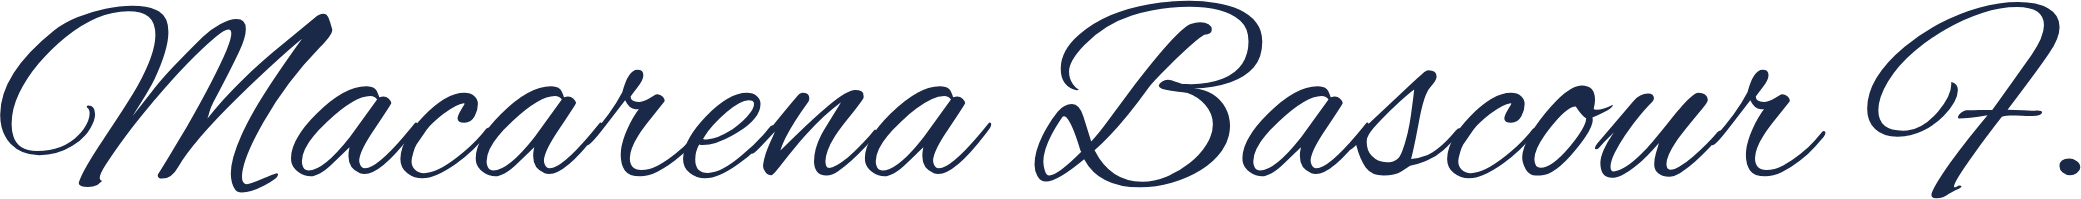
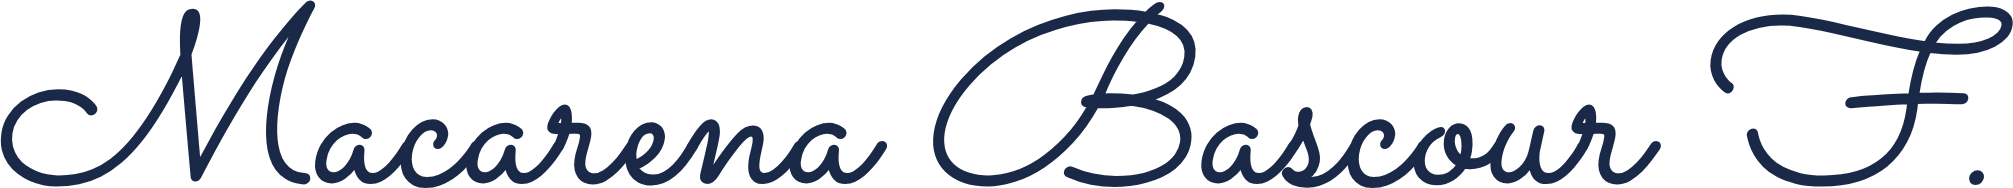
Replica la firma de la muestra y ordena la maqueta del correo
La firma pasa a una caligrafía monolineal: trazo de grosor parejo,
inclinación de mano y línea base horizontal, como la muestra enviada.

Maqueta: todo el correo cuelga ahora de un único margen lateral, que es
lo que hace que se lea como una columna y no como bloques sueltos.
- El nombre del colegio ocupa una fila propia; antes competía con la
  ilustración y se partía en dos renglones.
- El titular fluye en un solo bloque y la ilustración se centra con él.
- Las dos cifras comparten estructura (número, etiqueta, nota) en
  columnas iguales; el puntaje del colegio va en azul y sólo la brecha
  en rojo, para que el ojo distinga el dato del problema.
- Los beneficios pasan de cuatro columnas a dos por fila con el icono al
  costado: a 600 px, cuatro columnas dejaban renglones de tres palabras.
- La invitación a reunirse, los horarios y el botón arrancan en el mismo
  margen, así la vista baja recta hasta la llamada a la acción.
- La firma y los contactos se alinean por arriba.
Revisado en escritorio y en teléfono.

Claude-Session: https://claude.ai/code/session_01Je67bpLEoytunykz9aAXeX

Changed region(s): [[0.0, 0.0, 1.0, 1.0], [0.9856, 0.7979, 1.0, 0.8777]]

diff --git a/web/mailing.js b/web/mailing.js
@@ -206,29 +206,34 @@ export function correoHtml({ texto, prospecto, ctx, base, campanaId, rbd, track 
   const sitio = String(ctx?.sitio || '').trim();
   const remitente = String(ctx?.remitente || '').trim();
   const horarios = String(ctx?.horarios || '').split(',')
-    .map((h) => h.trim()).filter(Boolean).slice(0, 4);
+    .map((h) => h.trim()).filter(Boolean).slice(0, 3);
 
   const f = 'font-family:Arial,Helvetica,sans-serif';
+  /* Un solo margen lateral para todo el correo. Es lo que hace que el ojo
+     lea una columna y no una sucesión de bloques sueltos. */
+  const M = 'padding-left:34px;padding-right:34px';
+
+  /* Las dos cifras se leen como par comparado, así que ambas columnas
+     llevan la misma estructura: número, etiqueta, nota al pie. */
+  const cifra = (num, etiqueta, nota, color) => `
+    <div style="${f};font-size:36px;line-height:1;font-weight:bold;color:${color}">${num}</div>
+    <div style="${f};font-size:12.5px;font-weight:bold;line-height:1.35;
+      color:${MARCA.navy};padding-top:7px">${etiqueta}</div>
+    ${nota ? `<div style="${f};font-size:12px;line-height:1.4;color:#5a6b84;
+      padding-top:4px">${nota}</div>` : ''}`;
 
   const tarjetaSimce = Number.isFinite(simce) ? `
     <table role="presentation" width="100%" cellpadding="0" cellspacing="0"
            style="background:#f2f6fc;border-left:4px solid ${MARCA.rojo};border-radius:0 10px 10px 0">
       <tr>
-        <td width="46%" style="padding:16px 6px 16px 18px;${f};border-right:1px solid #dde5f0" valign="top">
-          <span style="font-size:34px;font-weight:bold;color:${MARCA.rojo}">${Math.round(simce)}</span>
-          <span style="font-size:13px;font-weight:bold;color:${MARCA.navy}">&nbsp;puntos</span>
-          <div style="font-size:12.5px;font-weight:bold;color:${MARCA.navy};padding-top:4px">
-            SIMCE Matemática 4º básico${anio ? ` ${escaparHtml(anio)}` : ''}</div>
+        <td width="50%" valign="top" style="padding:18px 16px 18px 20px;border-right:1px solid #dde5f0">
+          ${cifra(Math.round(simce), `puntos en SIMCE Matemática<br>4º básico${anio ? ` ${escaparHtml(anio)}` : ''}`, '', MARCA.navy)}
         </td>
-        <td style="padding:16px 18px 16px 16px;${f}" valign="top">
-          ${brecha > 0 ? `
-          <span style="font-size:34px;font-weight:bold;color:${MARCA.rojo}">${brecha}</span>
-          <span style="font-size:13px;font-weight:bold;color:${MARCA.rojo}">&nbsp;puntos bajo el<br>
-            <span style="padding-left:2px">promedio nacional (${ctx?.promedio || 253})</span></span>
-          <div style="font-size:12.5px;color:#5a6b84;padding-top:5px">
-            Una brecha que un método estructurado puede cerrar.</div>`
-    : `<div style="font-size:13px;color:#5a6b84;padding-top:8px">
-            Promedio nacional: ${ctx?.promedio || 253} puntos.</div>`}
+        <td width="50%" valign="top" style="padding:18px 20px 18px 18px">
+          ${brecha > 0
+    ? cifra(brecha, `puntos bajo el promedio<br>nacional (${ctx?.promedio || 253})`,
+      'Una brecha que un método estructurado puede cerrar.', MARCA.rojo)
+    : cifra(ctx?.promedio || 253, 'es el promedio nacional<br>de referencia', '', MARCA.navy)}
         </td>
       </tr>
     </table>` : '';
@@ -237,8 +242,8 @@ export function correoHtml({ texto, prospecto, ctx, base, campanaId, rbd, track 
     <table role="presentation" cellpadding="0" cellspacing="0"><tr>
       ${horarios.map((h) => {
     const [dia, ...resto] = h.split(/\s+/);
-    return `<td style="padding:0 10px 0 0"><table role="presentation" cellpadding="0" cellspacing="0">
-        <tr><td style="background:#eef2f8;border-radius:8px;padding:9px 13px;${f};font-size:13px">
+    return `<td style="padding:0 8px 0 0"><table role="presentation" cellpadding="0" cellspacing="0">
+        <tr><td style="background:#eef2f8;border-radius:8px;padding:9px 14px;${f};font-size:13px;white-space:nowrap">
           <img src="${img('ic-cal-chip')}" width="14" alt="" style="vertical-align:-2px;border:0">
           &nbsp;<b style="color:${MARCA.navy}">${escaparHtml(dia)}</b>
           &nbsp;<span style="color:#3d4c63">${escaparHtml(resto.join(' '))}</span>
@@ -246,18 +251,27 @@ export function correoHtml({ texto, prospecto, ctx, base, campanaId, rbd, track 
   }).join('')}
     </tr></table>` : '';
 
-  const beneficios = [
-    ['ic-grafico', 'Mejora significativa en resultados SIMCE.'],
-    ['ic-personas', 'Menos brechas, más estudiantes comprendiendo.'],
+  /* Dos por fila, con el icono al costado del texto: a 600 px, cuatro
+     columnas dejan renglones de tres palabras y bordes desparejos. */
+  const BENEFICIOS = [
+    ['ic-grafico', 'Mejora significativa en los resultados SIMCE.'],
+    ['ic-personas', 'Menos brechas: más estudiantes comprendiendo.'],
     ['ic-lista', 'Docentes con secuencias claras y fáciles de aplicar.'],
     ['ic-diana', 'Progreso medible clase a clase.'],
-  ].map(([icono, txt], i) => `
-    <td width="25%" align="center" valign="top"
-        style="padding:4px 8px;${f};font-size:12px;line-height:1.45;color:#2c4a38;
-        ${i ? 'border-left:1px solid #d8e8dc' : ''}">
-      <img src="${img(icono)}" width="34" alt="" style="border:0"><br>
-      <span style="display:inline-block;padding-top:6px">${txt}</span>
-    </td>`).join('');
+  ];
+  const celdaBeneficio = ([icono, txt]) => `
+    <td width="50%" valign="top" style="padding:7px 12px 7px 0">
+      <table role="presentation" cellpadding="0" cellspacing="0" width="100%">
+        <tr>
+          <td width="40" valign="top" style="padding-top:1px">
+            <img src="${img(icono)}" width="30" alt="" style="display:block;border:0"></td>
+          <td valign="top" style="${f};font-size:13px;line-height:1.5;color:#2c4a38">${txt}</td>
+        </tr>
+      </table>
+    </td>`;
+  const beneficios = `
+    <tr>${celdaBeneficio(BENEFICIOS[0])}${celdaBeneficio(BENEFICIOS[1])}</tr>
+    <tr>${celdaBeneficio(BENEFICIOS[2])}${celdaBeneficio(BENEFICIOS[3])}</tr>`;
 
   const botonWa = wa ? `
     <table role="presentation" width="100%" cellpadding="0" cellspacing="0">
@@ -268,13 +282,13 @@ export function correoHtml({ texto, prospecto, ctx, base, campanaId, rbd, track 
           &nbsp;Agendar reunión de 30 minutos por WhatsApp&nbsp;&nbsp;&#8250;</a>
       </td></tr>
     </table>
-    <div style="${f};font-size:12.5px;color:#5a6b84;padding-top:8px" align="center">
+    <div style="${f};font-size:12.5px;color:#5a6b84;padding-top:9px" align="center">
       o simplemente responda este correo — contesto personalmente.</div>` : `
     <div style="${f};font-size:14px;color:#333333;padding:2px 0 6px">
       Responda este correo y coordinamos una reunión de 30 minutos — contesto personalmente.</div>`;
 
   const filaContacto = (icono, contenido) => `
-    <tr><td style="padding:5px 0;${f};font-size:13px">
+    <tr><td style="padding:0 0 9px;${f};font-size:13px">
       <img src="${img(icono)}" width="16" alt="" style="vertical-align:-3px;border:0">
       &nbsp;&nbsp;${contenido}</td></tr>`;
   const contactos = [
@@ -297,86 +311,105 @@ export function correoHtml({ texto, prospecto, ctx, base, campanaId, rbd, track 
   <tr><td align="center" style="padding:26px 12px">
     <table role="presentation" width="600" cellpadding="0" cellspacing="0"
            style="max-width:600px;width:100%;background:#ffffff;border-radius:14px;overflow:hidden">
-      <tr><td colspan="2" style="height:5px;background:${MARCA.rojo};font-size:0">&nbsp;</td></tr>
+      <tr><td style="height:5px;background:${MARCA.rojo};font-size:0">&nbsp;</td></tr>
 
-      <tr><td colspan="2" style="padding:24px 32px 4px">
-        <img src="${base}${MARCA.logo}" width="168" alt="JUMP Math Chile"
-             style="display:block;border:0;max-width:168px">
+      <tr><td style="${M};padding-top:24px;padding-bottom:16px">
+        <img src="${base}${MARCA.logo}" width="164" alt="JUMP Math Chile"
+             style="display:block;border:0;max-width:164px">
       </td></tr>
 
-      <tr>
-        <td style="padding:18px 6px 0 32px;${f}" valign="top">
-          <div style="font-size:12px;font-weight:bold;letter-spacing:.09em;
-            text-transform:uppercase;color:${MARCA.rojo}">${colegio}${comuna
-    ? `&nbsp;&nbsp;<span style="color:#8a93a3;font-weight:normal">·&nbsp;&nbsp;${comuna}</span>` : ''}</div>
-          <div style="font-size:25px;line-height:1.25;font-weight:bold;color:${MARCA.navy};
-            padding:6px 0 2px">Una oportunidad concreta para seguir mejorando</div>
-          <div style="font-size:22px;line-height:1.3;color:${MARCA.navy}">en Matemática 4º básico.</div>
-        </td>
-        <td width="215" style="padding:10px 26px 0 0" valign="top" align="right">
-          <img src="${img('ilustracion')}" width="205" alt=""
-               style="display:block;border:0;max-width:205px">
-        </td>
-      </tr>
+      <!-- El nombre del colegio ocupa el ancho completo: es lo primero
+           que el director reconoce y no debe partirse contra la imagen. -->
+      <tr><td style="${M};padding-bottom:2px;${f};font-size:12px;font-weight:bold;
+        letter-spacing:.08em;text-transform:uppercase;color:${MARCA.rojo}">${colegio}${comuna
+    ? `<span style="color:#98a2b3;font-weight:normal">&nbsp;&nbsp;·&nbsp;&nbsp;${comuna}</span>` : ''}</td></tr>
 
-      <tr><td colspan="2" style="padding:14px 32px 14px;${f};font-size:15px;color:#333333">
+      <tr><td style="${M};padding-top:6px;padding-bottom:6px">
+        <table role="presentation" width="100%" cellpadding="0" cellspacing="0">
+          <tr>
+            <td valign="middle" style="${f};font-size:24px;line-height:1.3;color:${MARCA.navy}">
+              <b>Una oportunidad concreta</b> para seguir mejorando en
+              <b>Matemática 4º básico.</b>
+            </td>
+            <td width="180" valign="middle" align="right">
+              <img src="${img('ilustracion')}" width="172" alt=""
+                   style="display:block;border:0;max-width:172px">
+            </td>
+          </tr>
+        </table>
+      </td></tr>
+
+      <tr><td style="${M};padding-top:8px;padding-bottom:14px;${f};font-size:15px;color:#333333">
         Estimado equipo directivo:
       </td></tr>
 
-      ${tarjetaSimce ? `<tr><td colspan="2" style="padding:0 32px 16px">${tarjetaSimce}</td></tr>` : ''}
+      ${tarjetaSimce ? `<tr><td style="${M};padding-bottom:18px">${tarjetaSimce}</td></tr>` : ''}
 
-      <tr><td colspan="2" style="padding:0 32px 18px">
+      <tr><td style="${M};padding-bottom:6px;${f}">
+        <div style="font-size:17px;font-weight:bold;color:${MARCA.navy};padding-bottom:8px">
+          ¿Qué es JUMP Math?</div>
+        <div style="font-size:14.5px;line-height:1.65;color:#333333">${cuerpo}</div>
+      </td></tr>
+
+      <tr><td style="${M};padding-top:14px;padding-bottom:4px">
         <table role="presentation" width="100%" cellpadding="0" cellspacing="0"
                style="background:#f4f6f9;border-radius:999px">
-          <tr><td style="padding:9px 18px;${f};font-size:12px;color:#5a6b84" align="center">
+          <tr><td align="center" style="padding:9px 18px;${f};font-size:12px;color:#5a6b84">
             <img src="${img('ic-globo')}" width="15" alt="" style="vertical-align:-3px;border:0">
             &nbsp;Creado en Canadá &nbsp;·&nbsp; Ensayos controlados aleatorizados
             &nbsp;·&nbsp; Canadá, EE.&nbsp;UU. y España</td></tr>
         </table>
       </td></tr>
 
-      <tr><td colspan="2" style="padding:0 32px 4px;${f}">
-        <div style="font-size:16px;font-weight:bold;color:${MARCA.navy};padding-bottom:6px">
-          ¿Qué es JUMP Math?</div>
-        <div style="font-size:14.5px;line-height:1.6;color:#333333">${cuerpo}</div>
-      </td></tr>
-
-      <tr><td colspan="2" style="padding:16px 32px 0">
+      <tr><td style="${M};padding-top:16px">
         <table role="presentation" width="100%" cellpadding="0" cellspacing="0"
                style="background:#eef7f0;border-radius:12px">
-          <tr><td colspan="4" style="padding:16px 18px 8px;${f};font-size:15px;
+          <tr><td colspan="2" style="padding:16px 18px 4px;${f};font-size:15px;
             font-weight:bold;color:#1e6b40">¿Qué logran los colegios con JUMP Math?</td></tr>
-          <tr>${beneficios}</tr>
-          <tr><td colspan="4" style="font-size:0;height:16px">&nbsp;</td></tr>
+          <tr><td colspan="2" style="padding:0 8px 0 18px">
+            <table role="presentation" width="100%" cellpadding="0" cellspacing="0">
+              ${beneficios}
+            </table>
+          </td></tr>
+          <tr><td colspan="2" style="font-size:0;height:14px">&nbsp;</td></tr>
         </table>
       </td></tr>
 
-      <tr>
-        <td width="86" style="padding:22px 0 0 32px" valign="top">
-          <table role="presentation" cellpadding="0" cellspacing="0"><tr>
-            <td style="background:#eaf0f8;border-radius:50%;width:64px;height:64px" align="center" valign="middle">
-              <img src="${img('ic-cal-navy')}" width="34" alt="" style="border:0;vertical-align:middle">
-            </td></tr></table>
-        </td>
-        <td style="padding:22px 32px 0 14px;${f}" valign="top">
-          <div style="font-size:16.5px;font-weight:bold;color:${MARCA.navy};padding-bottom:4px">
-            ¿Revisamos juntos cómo funciona${comuna ? ` en ${comuna}` : ''}?</div>
-          <div style="font-size:14px;line-height:1.55;color:#333333;padding-bottom:10px">
-            Podemos reunirnos 30 minutos para mostrarles cómo implementarlo
-            y los resultados que han obtenido otros colegios.</div>
-          ${chips}
-        </td>
-      </tr>
+      <!-- El icono acompaña al título; el párrafo, los horarios y el botón
+           arrancan todos en el mismo margen, así la vista baja en línea
+           recta hasta el CTA. -->
+      <tr><td style="${M};padding-top:24px">
+        <table role="presentation" cellpadding="0" cellspacing="0">
+          <tr>
+            <td width="52" valign="middle">
+              <table role="presentation" cellpadding="0" cellspacing="0"><tr>
+                <td width="44" height="44" align="center" valign="middle"
+                    style="background:#eaf0f8;border-radius:50%">
+                  <img src="${img('ic-cal-navy')}" width="24" alt="" style="border:0;vertical-align:middle">
+                </td></tr></table>
+            </td>
+            <td valign="middle" style="${f};font-size:16.5px;font-weight:bold;color:${MARCA.navy}">
+              ¿Revisamos juntos cómo funciona${comuna ? ` en ${comuna}` : ''}?</td>
+          </tr>
+        </table>
+      </td></tr>
 
-      <tr><td colspan="2" style="padding:18px 32px 6px">${botonWa}</td></tr>
+      <tr><td style="${M};padding-top:9px;${f};font-size:14px;line-height:1.6;color:#333333">
+        Podemos reunirnos 30 minutos para mostrarles cómo implementarlo
+        y los resultados que han obtenido otros colegios.</td></tr>
 
-      <tr><td colspan="2" style="padding:14px 32px 0">
+      ${chips ? `<tr><td style="${M};padding-top:14px">${chips}</td></tr>` : ''}
+
+      <tr><td style="${M};padding-top:18px">${botonWa}</td></tr>
+
+      <tr><td style="${M};padding-top:18px">
         <table role="presentation" width="100%" cellpadding="0" cellspacing="0"
                style="background:#fdefee;border-radius:10px">
           <tr>
-            <td width="52" style="padding:13px 0 13px 16px" valign="middle">
-              <img src="${img('ic-cal-rojo')}" width="30" alt="" style="border:0"></td>
-            <td style="padding:13px 16px 13px 6px;${f};font-size:13px;line-height:1.5;color:#333333">
+            <td width="54" align="center" valign="middle" style="padding:14px 0 14px 14px">
+              <img src="${img('ic-cal-rojo')}" width="28" alt="" style="border:0;display:block"></td>
+            <td valign="middle" style="padding:14px 18px 14px 8px;${f};font-size:13px;
+              line-height:1.55;color:#333333">
               Los programas que comienzan con el <b style="color:${MARCA.rojo}">año escolar 2027</b>
               se están definiendo durante estas semanas, por lo que este es un buen momento
               para evaluarlo.</td>
@@ -384,28 +417,33 @@ export function correoHtml({ texto, prospecto, ctx, base, campanaId, rbd, track 
         </table>
       </td></tr>
 
-      <tr><td colspan="2" style="padding:20px 32px 0">
+      <tr><td style="${M};padding-top:22px">
         <div style="border-top:1px solid #e6e9ef;font-size:0">&nbsp;</div>
       </td></tr>
-      <tr>
-        <td style="padding:6px 6px 26px 32px;${f}" valign="top">
-          <img src="${base}${MARCA.firma}" width="205" alt="${escaparHtml(MARCA.firmante)}"
-               style="display:block;border:0;max-width:205px">
-          <div style="font-size:15px;font-weight:bold;color:${MARCA.navy};padding-top:8px">
-            ${escaparHtml(MARCA.firmante)}</div>
-          <div style="font-size:13px;color:#5a6b84;padding-top:1px">${escaparHtml(MARCA.cargo)}</div>
-        </td>
-        <td width="235" style="padding:14px 32px 26px 16px;border-left:1px solid #e6e9ef" valign="middle">
-          <table role="presentation" cellpadding="0" cellspacing="0">${contactos}</table>
-        </td>
-      </tr>
+
+      <tr><td style="${M};padding-top:14px;padding-bottom:28px">
+        <table role="presentation" width="100%" cellpadding="0" cellspacing="0">
+          <tr>
+            <td valign="top" style="${f}">
+              <img src="${base}${MARCA.firma}" width="196" alt="${escaparHtml(MARCA.firmante)}"
+                   style="display:block;border:0;max-width:196px">
+              <div style="font-size:15px;font-weight:bold;color:${MARCA.navy};padding-top:10px">
+                ${escaparHtml(MARCA.firmante)}</div>
+              <div style="font-size:13px;color:#5a6b84;padding-top:2px">${escaparHtml(MARCA.cargo)}</div>
+            </td>
+            <td width="222" valign="top" style="padding-left:20px;border-left:1px solid #e6e9ef">
+              <table role="presentation" cellpadding="0" cellspacing="0">${contactos}</table>
+            </td>
+          </tr>
+        </table>
+      </td></tr>
     </table>
 
     <table role="presentation" width="600" cellpadding="0" cellspacing="0" style="max-width:600px;width:100%">
-      <tr><td style="padding:14px 20px;${f};font-size:11px;line-height:1.5;color:#8a93a3" align="center">
+      <tr><td align="center" style="padding:16px 24px;${f};font-size:11px;line-height:1.6;color:#8a93a3">
         Le escribimos porque ${colegio || 'su establecimiento'} figura en el directorio público
-        de establecimientos de MINEDUC. Si prefiere no recibir más información,<br>
-        responda este correo con la palabra BAJA.
+        de establecimientos de MINEDUC.<br>
+        Si prefiere no recibir más información, responda este correo con la palabra BAJA.
       </td></tr>
     </table>
   </td></tr>
